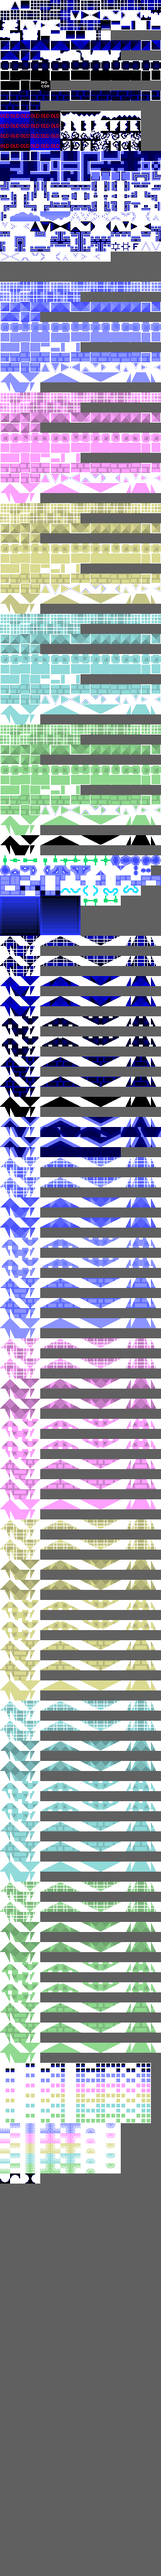
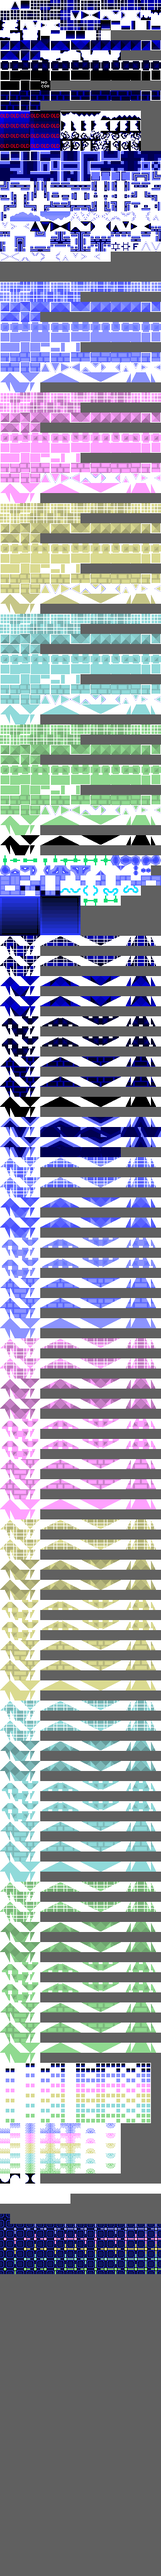
i fucking hate metatiles (added some 1.8 stuff)

Changed region(s): [[0.0, 0.8438, 1.0, 0.9062]]

diff --git a/src/metatiles.c b/src/metatiles.c
@@ -16,6 +16,9 @@
 #define PLAYER_PAL 7
 
 // Goes like this TOP_LEFT, TOP_RIGHT, BOTTOM_LEFT, BOTTOM_RIGHT, COL_TYPE
+
+// i hate this
+//-banana 03/22/2025
 const SCR_ENTRY metatiles[][5] = {
     Metatile("AIR",            TILE(0x00, 0, 0, 0), TILE(0x00, 0, 0, 0), TILE(0x00, 0, 0, 0), TILE(0x00, 0, 0, 0), COL_NONE)
     Metatile("SPIKE_UP",       TILE(0x53, 0, 0, 0), TILE(0x54, 0, 0, 0), TILE(0x55, 0, 0, 0), TILE(0x56, 0, 0, 0), COL_SPIKE_TOP)
@@ -3854,9 +3857,179 @@ const SCR_ENTRY metatiles[][5] = {
     Metatile("EMPTY",                       TILE(0x000, COL4_PAL, 0, 0), TILE(0x000, COL4_PAL, 0, 0), TILE(0x000, COL4_PAL, 0, 0), TILE(0x000, COL4_PAL, 0, 0), COL_NONE)
     Metatile("EMPTY",                       TILE(0x000, COL4_PAL, 0, 0), TILE(0x000, COL4_PAL, 0, 0), TILE(0x000, COL4_PAL, 0, 0), TILE(0x000, COL4_PAL, 0, 0), COL_NONE)
 
-    Metatile("CIRCULAR_GROUND_SPIKE_BOTTOM", TILE(0x000, 0, 0, 0), TILE(0x000, 0, 0, 0), TILE(0x1e4, 0, 0, 0), TILE(0x1e4, 0, H, 0), COL_GROUND_SPIKE_BOTTOM)
-    Metatile("CIRCULAR_GROUND_SPIKE_TOP",    TILE(0x1e4, 0, 0, V), TILE(0x1e4, 0, H, V), TILE(0x000, 0, 0, 0), TILE(0x000, 0, H, 0), COL_GROUND_SPIKE_TOP)
-    Metatile("CIRCULAR_GROUND_SPIKE_RIGHT",   TILE(0x000, 0, 0, 0), TILE(0x1e5, 0, 0, V), TILE(0x000, 0, 0, 0), TILE(0x1e5, 0, 0, 0), COL_GROUND_SPIKE_RIGHT)
+    Metatile("CIRCULAR_GROUND_SPIKE_BOTTOM",TILE(0x000, 0, 0, 0), TILE(0x000, 0, 0, 0), TILE(0x1e4, 0, 0, 0), TILE(0x1e4, 0, H, 0), COL_GROUND_SPIKE_BOTTOM)
+    Metatile("CIRCULAR_GROUND_SPIKE_TOP",   TILE(0x1e4, 0, 0, V), TILE(0x1e4, 0, H, V), TILE(0x000, 0, 0, 0), TILE(0x000, 0, H, 0), COL_GROUND_SPIKE_TOP)
+    Metatile("CIRCULAR_GROUND_SPIKE_RIGHT", TILE(0x000, 0, 0, 0), TILE(0x1e5, 0, 0, V), TILE(0x000, 0, 0, 0), TILE(0x1e5, 0, 0, 0), COL_GROUND_SPIKE_RIGHT)
     Metatile("CIRCULAR_GROUND_SPIKE_LEFT",  TILE(0x1e5, 0, H, V), TILE(0x000, 0, 0, 0), TILE(0x1e5, 0, H, 0), TILE(0x000, 0, 0, 0), COL_GROUND_SPIKE_LEFT)
+    Metatile("EMPTY",                       TILE(0x000, COL4_PAL, 0, 0), TILE(0x000, COL4_PAL, 0, 0), TILE(0x000, COL4_PAL, 0, 0), TILE(0x000, COL4_PAL, 0, 0), COL_NONE)
+    Metatile("EMPTY",                       TILE(0x000, COL4_PAL, 0, 0), TILE(0x000, COL4_PAL, 0, 0), TILE(0x000, COL4_PAL, 0, 0), TILE(0x000, COL4_PAL, 0, 0), COL_NONE)
+    Metatile("EMPTY",                       TILE(0x000, COL4_PAL, 0, 0), TILE(0x000, COL4_PAL, 0, 0), TILE(0x000, COL4_PAL, 0, 0), TILE(0x000, COL4_PAL, 0, 0), COL_NONE)
+    Metatile("EMPTY",                       TILE(0x000, COL4_PAL, 0, 0), TILE(0x000, COL4_PAL, 0, 0), TILE(0x000, COL4_PAL, 0, 0), TILE(0x000, COL4_PAL, 0, 0), COL_NONE)
+    Metatile("EMPTY",                       TILE(0x000, COL4_PAL, 0, 0), TILE(0x000, COL4_PAL, 0, 0), TILE(0x000, COL4_PAL, 0, 0), TILE(0x000, COL4_PAL, 0, 0), COL_NONE)
+    Metatile("EMPTY",                       TILE(0x000, COL4_PAL, 0, 0), TILE(0x000, COL4_PAL, 0, 0), TILE(0x000, COL4_PAL, 0, 0), TILE(0x000, COL4_PAL, 0, 0), COL_NONE)
+    Metatile("EMPTY",                       TILE(0x000, COL4_PAL, 0, 0), TILE(0x000, COL4_PAL, 0, 0), TILE(0x000, COL4_PAL, 0, 0), TILE(0x000, COL4_PAL, 0, 0), COL_NONE)
+    Metatile("EMPTY",                       TILE(0x000, COL4_PAL, 0, 0), TILE(0x000, COL4_PAL, 0, 0), TILE(0x000, COL4_PAL, 0, 0), TILE(0x000, COL4_PAL, 0, 0), COL_NONE)
+    Metatile("EMPTY",                       TILE(0x000, COL4_PAL, 0, 0), TILE(0x000, COL4_PAL, 0, 0), TILE(0x000, COL4_PAL, 0, 0), TILE(0x000, COL4_PAL, 0, 0), COL_NONE)
+    Metatile("EMPTY",                       TILE(0x000, COL4_PAL, 0, 0), TILE(0x000, COL4_PAL, 0, 0), TILE(0x000, COL4_PAL, 0, 0), TILE(0x000, COL4_PAL, 0, 0), COL_NONE)
+    Metatile("EMPTY",                       TILE(0x000, COL4_PAL, 0, 0), TILE(0x000, COL4_PAL, 0, 0), TILE(0x000, COL4_PAL, 0, 0), TILE(0x000, COL4_PAL, 0, 0), COL_NONE)
+    Metatile("EMPTY",                       TILE(0x000, COL4_PAL, 0, 0), TILE(0x000, COL4_PAL, 0, 0), TILE(0x000, COL4_PAL, 0, 0), TILE(0x000, COL4_PAL, 0, 0), COL_NONE)
+
+    Metatile("OUTLINE_BLOCK",                                                   TILE(0x120, LBG_PAL, 0, 0), TILE(0x120, LBG_PAL, H, 0), TILE(0x120, LBG_PAL, 0, V), TILE(0x120, LBG_PAL, H, V), COL_FULL)
+    Metatile("OUTLINE_TOP",                                                     TILE(0x23d, LBG_PAL, 0, 0), TILE(0x23d, LBG_PAL, 0, 0), TILE(0x000, LBG_PAL, 0, 0), TILE(0x000, LBG_PAL, 0, 0), COL_MINIBLOCK_1100)
+    Metatile("OUTLINE_LEFT",                                                    TILE(0x23e, LBG_PAL, H, 0), TILE(0x000, LBG_PAL, 0, 0), TILE(0x23e, LBG_PAL, H, 0), TILE(0x000, LBG_PAL, 0, 0), COL_MINIBLOCK_1010)
+    Metatile("OUTLINE_BOTTOM",                                                  TILE(0x000, LBG_PAL, 0, 0), TILE(0x000, LBG_PAL, 0, 0), TILE(0x23d, LBG_PAL, 0, V), TILE(0x23d, LBG_PAL, 0, V), COL_MINIBLOCK_0011)
+    Metatile("OUTLINE_RIGHT",                                                   TILE(0x000, LBG_PAL, 0, 0), TILE(0x23e, LBG_PAL, 0, 0), TILE(0x000, LBG_PAL, 0, 0), TILE(0x23e, LBG_PAL, 0, 0), COL_MINIBLOCK_0101)
+    Metatile("OUTLINE_LEFT_TOP",                                                TILE(0x120, LBG_PAL, 0, 0), TILE(0x23d, LBG_PAL, 0, 0), TILE(0x23e, LBG_PAL, H, 0), TILE(0x000, LBG_PAL, 0, 0), COL_MINIBLOCK_1110)
+    Metatile("OUTLINE_LEFT_BOTTOM",                                             TILE(0x23e, LBG_PAL, H, 0), TILE(0x000, LBG_PAL, 0, 0), TILE(0x120, LBG_PAL, 0, V), TILE(0x23d, LBG_PAL, 0, V), COL_MINIBLOCK_1011)
+    Metatile("OUTLINE_BOTTOM_RIGHT",                                            TILE(0x000, LBG_PAL, 0, 0), TILE(0x23e, LBG_PAL, 0, V), TILE(0x23d, LBG_PAL, 0, V), TILE(0x120, LBG_PAL, H, V), COL_MINIBLOCK_0111)
+    Metatile("OUTLINE_TOP_RIGHT",                                               TILE(0x23d, LBG_PAL, 0, 0), TILE(0x120, LBG_PAL, H, 0), TILE(0x000, LBG_PAL, 0, 0), TILE(0x23e, LBG_PAL, 0, 0), COL_MINIBLOCK_1101)
+// oh my fucking god i forgot about those outlines
+//-banana, 03/23/2025
+    Metatile("OUTLINE_LEFT_TOP_RIGHT",                                             TILE(0x120, LBG_PAL, 0, 0), TILE(0x120, LBG_PAL, H, 0), TILE(0x23e, LBG_PAL, H, 0), TILE(0x23e, LBG_PAL, 0, 0), COL_FULL)
+    Metatile("OUTLINE_TOP_LEFT_BOTTOM",                                            TILE(0x120, LBG_PAL, 0, 0), TILE(0x23d, LBG_PAL, 0, 0), TILE(0x120, LBG_PAL, 0, V), TILE(0x23d, LBG_PAL, 0, V), COL_FULL)
+    Metatile("OUTLINE_LEFT_BOTTOM_RIGHT",                                          TILE(0x23e, LBG_PAL, H, 0), TILE(0x23e, LBG_PAL, 0, 0), TILE(0x120, LBG_PAL, 0, V), TILE(0x120, LBG_PAL, H, V), COL_FULL)
+    Metatile("OUTLINE_BOTTOM_RIGHT_TOP",                                           TILE(0x23d, LBG_PAL, 0, 0), TILE(0x120, LBG_PAL, H, 0), TILE(0x23d, LBG_PAL, 0, V), TILE(0x120, LBG_PAL, H, V), COL_FULL)
+    Metatile("OUTLINE_LEFT_RIGHT",                                                 TILE(0x23e, LBG_PAL, H, 0), TILE(0x23e, LBG_PAL, 0, 0), TILE(0x23e, LBG_PAL, H, 0), TILE(0x23e, LBG_PAL, 0, 0), COL_FULL)
+    Metatile("OUTLINE_TOP_BOTTOM",                                                 TILE(0x23d, LBG_PAL, 0, 0), TILE(0x23d, LBG_PAL, 0, 0), TILE(0x23d, LBG_PAL, 0, V), TILE(0x23d, LBG_PAL, 0, V), COL_FULL)
+    Metatile("OUTLINE_DOT_TOP_LEFT",                                               TILE(0x23f, LBG_PAL, 0, 0), TILE(0x000, LBG_PAL, 0, 0), TILE(0x000, LBG_PAL, 0, 0), TILE(0x000, LBG_PAL, 0, 0), COL_MINIBLOCK_1000)
+//finally, hopefully nothing breaks
+//-banana, that same day
+//guess what, something broke
+//-banana again lmao
+    Metatile("OUTLINE_DOT_BOTTOM_LEFT",     TILE(0x000, LBG_PAL, 0, 0), TILE(0x000, LBG_PAL, 0, 0), TILE(0x23f, LBG_PAL, 0, V), TILE(0x000, LBG_PAL, 0, 0), COL_MINIBLOCK_0010)
+    Metatile("OUTLINE_DOT_BOTTOM_RIGHT",    TILE(0x000, LBG_PAL, 0, 0), TILE(0x000, LBG_PAL, 0, 0), TILE(0x000, LBG_PAL, 0, 0), TILE(0x23f, LBG_PAL, H, V), COL_MINIBLOCK_0001)
+    Metatile("OUTLINE_DOT_TOP_RIGHT",       TILE(0x000, LBG_PAL, 0, 0), TILE(0x23f, LBG_PAL, H, 0), TILE(0x000, LBG_PAL, 0, 0), TILE(0x000, LBG_PAL, 0, 0), COL_MINIBLOCK_0100)
+    Metatile("OUTLINE_LEFT_TOP_W_DOT",      TILE(0x120, LBG_PAL, 0, 0), TILE(0x23d, LBG_PAL, 0, 0), TILE(0x23e, LBG_PAL, H, 0), TILE(0x23f, LBG_PAL, H, V), COL_FULL)
+    Metatile("OUTLINE_LEFT_BOTTOM_W_DOT",   TILE(0x23e, LBG_PAL, H, 0), TILE(0x23f, LBG_PAL, H, 0), TILE(0x120, LBG_PAL, 0, V), TILE(0x23d, LBG_PAL, 0, V), COL_FULL)
+    Metatile("OUTLINE_BOTTOM_RIGHT_W_DOT",  TILE(0x23f, LBG_PAL, 0, 0), TILE(0x23e, LBG_PAL, 0, V), TILE(0x23d, LBG_PAL, 0, V), TILE(0x120, LBG_PAL, H, V), COL_FULL)
+    Metatile("OUTLINE_TOP_RIGHT_W_DOT",     TILE(0x23d, LBG_PAL, 0, 0), TILE(0x120, LBG_PAL, H, 0), TILE(0x23f, LBG_PAL, 0, V), TILE(0x23e, LBG_PAL, 0, 0), COL_FULL)
+    Metatile("EMPTY",                       TILE(0x000, COL4_PAL, 0, 0), TILE(0x000, COL4_PAL, 0, 0), TILE(0x000, COL4_PAL, 0, 0), TILE(0x000, COL4_PAL, 0, 0), COL_NONE)
+    Metatile("EMPTY",                       TILE(0x000, COL4_PAL, 0, 0), TILE(0x000, COL4_PAL, 0, 0), TILE(0x000, COL4_PAL, 0, 0), TILE(0x000, COL4_PAL, 0, 0), COL_NONE)
+    Metatile("EMPTY",                       TILE(0x000, COL4_PAL, 0, 0), TILE(0x000, COL4_PAL, 0, 0), TILE(0x000, COL4_PAL, 0, 0), TILE(0x000, COL4_PAL, 0, 0), COL_NONE)
+    Metatile("EMPTY",                       TILE(0x000, COL4_PAL, 0, 0), TILE(0x000, COL4_PAL, 0, 0), TILE(0x000, COL4_PAL, 0, 0), TILE(0x000, COL4_PAL, 0, 0), COL_NONE)
+    Metatile("EMPTY",                       TILE(0x000, COL4_PAL, 0, 0), TILE(0x000, COL4_PAL, 0, 0), TILE(0x000, COL4_PAL, 0, 0), TILE(0x000, COL4_PAL, 0, 0), COL_NONE)
+    Metatile("EMPTY",                       TILE(0x000, COL4_PAL, 0, 0), TILE(0x000, COL4_PAL, 0, 0), TILE(0x000, COL4_PAL, 0, 0), TILE(0x000, COL4_PAL, 0, 0), COL_NONE)
+    Metatile("EMPTY",                       TILE(0x000, COL4_PAL, 0, 0), TILE(0x000, COL4_PAL, 0, 0), TILE(0x000, COL4_PAL, 0, 0), TILE(0x000, COL4_PAL, 0, 0), COL_NONE)
+    Metatile("EMPTY",                       TILE(0x000, COL4_PAL, 0, 0), TILE(0x000, COL4_PAL, 0, 0), TILE(0x000, COL4_PAL, 0, 0), TILE(0x000, COL4_PAL, 0, 0), COL_NONE)
+    Metatile("EMPTY",                       TILE(0x000, COL4_PAL, 0, 0), TILE(0x000, COL4_PAL, 0, 0), TILE(0x000, COL4_PAL, 0, 0), TILE(0x000, COL4_PAL, 0, 0), COL_NONE)
+
+    Metatile("EMPTY",                       TILE(0x000, COL4_PAL, 0, 0), TILE(0x000, COL4_PAL, 0, 0), TILE(0x000, COL4_PAL, 0, 0), TILE(0x000, COL4_PAL, 0, 0), COL_NONE)
+    Metatile("EMPTY",                       TILE(0x000, COL4_PAL, 0, 0), TILE(0x000, COL4_PAL, 0, 0), TILE(0x000, COL4_PAL, 0, 0), TILE(0x000, COL4_PAL, 0, 0), COL_NONE)
+    Metatile("EMPTY",                       TILE(0x000, COL4_PAL, 0, 0), TILE(0x000, COL4_PAL, 0, 0), TILE(0x000, COL4_PAL, 0, 0), TILE(0x000, COL4_PAL, 0, 0), COL_NONE)
+    Metatile("EMPTY",                       TILE(0x000, COL4_PAL, 0, 0), TILE(0x000, COL4_PAL, 0, 0), TILE(0x000, COL4_PAL, 0, 0), TILE(0x000, COL4_PAL, 0, 0), COL_NONE)
+    Metatile("EMPTY",                       TILE(0x000, COL4_PAL, 0, 0), TILE(0x000, COL4_PAL, 0, 0), TILE(0x000, COL4_PAL, 0, 0), TILE(0x000, COL4_PAL, 0, 0), COL_NONE)
+    Metatile("EMPTY",                       TILE(0x000, COL4_PAL, 0, 0), TILE(0x000, COL4_PAL, 0, 0), TILE(0x000, COL4_PAL, 0, 0), TILE(0x000, COL4_PAL, 0, 0), COL_NONE)
+    Metatile("EMPTY",                       TILE(0x000, COL4_PAL, 0, 0), TILE(0x000, COL4_PAL, 0, 0), TILE(0x000, COL4_PAL, 0, 0), TILE(0x000, COL4_PAL, 0, 0), COL_NONE)
+    Metatile("EMPTY",                       TILE(0x000, COL4_PAL, 0, 0), TILE(0x000, COL4_PAL, 0, 0), TILE(0x000, COL4_PAL, 0, 0), TILE(0x000, COL4_PAL, 0, 0), COL_NONE)
+    Metatile("EMPTY",                       TILE(0x000, COL4_PAL, 0, 0), TILE(0x000, COL4_PAL, 0, 0), TILE(0x000, COL4_PAL, 0, 0), TILE(0x000, COL4_PAL, 0, 0), COL_NONE)
+    Metatile("EMPTY",                       TILE(0x000, COL4_PAL, 0, 0), TILE(0x000, COL4_PAL, 0, 0), TILE(0x000, COL4_PAL, 0, 0), TILE(0x000, COL4_PAL, 0, 0), COL_NONE)
+    Metatile("EMPTY",                       TILE(0x000, COL4_PAL, 0, 0), TILE(0x000, COL4_PAL, 0, 0), TILE(0x000, COL4_PAL, 0, 0), TILE(0x000, COL4_PAL, 0, 0), COL_NONE)
+    Metatile("EMPTY",                       TILE(0x000, COL4_PAL, 0, 0), TILE(0x000, COL4_PAL, 0, 0), TILE(0x000, COL4_PAL, 0, 0), TILE(0x000, COL4_PAL, 0, 0), COL_NONE)
+    Metatile("EMPTY",                       TILE(0x000, COL4_PAL, 0, 0), TILE(0x000, COL4_PAL, 0, 0), TILE(0x000, COL4_PAL, 0, 0), TILE(0x000, COL4_PAL, 0, 0), COL_NONE)
+    Metatile("EMPTY",                       TILE(0x000, COL4_PAL, 0, 0), TILE(0x000, COL4_PAL, 0, 0), TILE(0x000, COL4_PAL, 0, 0), TILE(0x000, COL4_PAL, 0, 0), COL_NONE)
+    Metatile("EMPTY",                       TILE(0x000, COL4_PAL, 0, 0), TILE(0x000, COL4_PAL, 0, 0), TILE(0x000, COL4_PAL, 0, 0), TILE(0x000, COL4_PAL, 0, 0), COL_NONE)
+    Metatile("EMPTY",                       TILE(0x000, COL4_PAL, 0, 0), TILE(0x000, COL4_PAL, 0, 0), TILE(0x000, COL4_PAL, 0, 0), TILE(0x000, COL4_PAL, 0, 0), COL_NONE)
+
+    Metatile("18_CROSS_WITH_EMPTY_CENTER",                                      TILE(0x1f0, LBG_PAL, 0, 0), TILE(0x1f0, LBG_PAL, H, 0), TILE(0x1f0, LBG_PAL, 0, V), TILE(0x1f0, LBG_PAL, H, V), COL_NONE)
+    Metatile("EMPTY",                                                           TILE(0x000, COL4_PAL, 0, 0), TILE(0x000, COL4_PAL, 0, 0), TILE(0x000, COL4_PAL, 0, 0), TILE(0x000, COL4_PAL, 0, 0), COL_NONE)
+    Metatile("EMPTY",                                                           TILE(0x000, COL4_PAL, 0, 0), TILE(0x000, COL4_PAL, 0, 0), TILE(0x000, COL4_PAL, 0, 0), TILE(0x000, COL4_PAL, 0, 0), COL_NONE)
+    Metatile("EMPTY",                                                           TILE(0x000, COL4_PAL, 0, 0), TILE(0x000, COL4_PAL, 0, 0), TILE(0x000, COL4_PAL, 0, 0), TILE(0x000, COL4_PAL, 0, 0), COL_NONE)
+    Metatile("EMPTY",                                                           TILE(0x000, COL4_PAL, 0, 0), TILE(0x000, COL4_PAL, 0, 0), TILE(0x000, COL4_PAL, 0, 0), TILE(0x000, COL4_PAL, 0, 0), COL_NONE)
+    Metatile("EMPTY",                                                           TILE(0x000, COL4_PAL, 0, 0), TILE(0x000, COL4_PAL, 0, 0), TILE(0x000, COL4_PAL, 0, 0), TILE(0x000, COL4_PAL, 0, 0), COL_NONE)
+    Metatile("EMPTY",                                                           TILE(0x000, COL4_PAL, 0, 0), TILE(0x000, COL4_PAL, 0, 0), TILE(0x000, COL4_PAL, 0, 0), TILE(0x000, COL4_PAL, 0, 0), COL_NONE)
+    Metatile("EMPTY",                                                           TILE(0x000, COL4_PAL, 0, 0), TILE(0x000, COL4_PAL, 0, 0), TILE(0x000, COL4_PAL, 0, 0), TILE(0x000, COL4_PAL, 0, 0), COL_NONE)
+    Metatile("EMPTY",                                                           TILE(0x000, COL4_PAL, 0, 0), TILE(0x000, COL4_PAL, 0, 0), TILE(0x000, COL4_PAL, 0, 0), TILE(0x000, COL4_PAL, 0, 0), COL_NONE)
+    Metatile("EMPTY",                                                           TILE(0x000, COL4_PAL, 0, 0), TILE(0x000, COL4_PAL, 0, 0), TILE(0x000, COL4_PAL, 0, 0), TILE(0x000, COL4_PAL, 0, 0), COL_NONE)
+    Metatile("EMPTY",                                                           TILE(0x000, COL4_PAL, 0, 0), TILE(0x000, COL4_PAL, 0, 0), TILE(0x000, COL4_PAL, 0, 0), TILE(0x000, COL4_PAL, 0, 0), COL_NONE)
+    Metatile("EMPTY",                                                           TILE(0x000, COL4_PAL, 0, 0), TILE(0x000, COL4_PAL, 0, 0), TILE(0x000, COL4_PAL, 0, 0), TILE(0x000, COL4_PAL, 0, 0), COL_NONE)
+    Metatile("EMPTY",                                                           TILE(0x000, COL4_PAL, 0, 0), TILE(0x000, COL4_PAL, 0, 0), TILE(0x000, COL4_PAL, 0, 0), TILE(0x000, COL4_PAL, 0, 0), COL_NONE)
+    Metatile("EMPTY",                                                           TILE(0x000, COL4_PAL, 0, 0), TILE(0x000, COL4_PAL, 0, 0), TILE(0x000, COL4_PAL, 0, 0), TILE(0x000, COL4_PAL, 0, 0), COL_NONE)
+    Metatile("EMPTY",                                                           TILE(0x000, COL4_PAL, 0, 0), TILE(0x000, COL4_PAL, 0, 0), TILE(0x000, COL4_PAL, 0, 0), TILE(0x000, COL4_PAL, 0, 0), COL_NONE)
+    Metatile("EMPTY",                                                           TILE(0x000, COL4_PAL, 0, 0), TILE(0x000, COL4_PAL, 0, 0), TILE(0x000, COL4_PAL, 0, 0), TILE(0x000, COL4_PAL, 0, 0), COL_NONE)
+
+    Metatile("LGB_18__CROSS_WITH_FULL_CENTER",                                  TILE(0x1f1, LBG_PAL, 0, 0), TILE(0x1f1, LBG_PAL, H, 0), TILE(0x1f1, LBG_PAL, 0, V), TILE(0x1f1, LBG_PAL, H, V), COL_NONE)
+    Metatile("LGB_18_CROSS_WITH_FULL_CENTER_AND_LINE_AT_BOTTOM",                TILE(0x1f1, LBG_PAL, 0, 0), TILE(0x1f1, LBG_PAL, H, 0), TILE(0x1f2, LBG_PAL, 0, V), TILE(0x1f2, LBG_PAL, H, V), COL_NONE)
+    Metatile("LGB_18_CROSS_WITH_FULL_CENTER_AND_LINE_AT_RIGHT",                 TILE(0x1f1, LBG_PAL, 0, 0), TILE(0x1f3, LBG_PAL, H, 0), TILE(0x1f1, LBG_PAL, 0, V), TILE(0x1f3, LBG_PAL, H, V), COL_NONE)
+    Metatile("LGB_18_CROSS_WITH_FULL_CENTER_AND_LINE_AT_TOP",                   TILE(0x1f2, LBG_PAL, 0, 0), TILE(0x1f2, LBG_PAL, H, 0), TILE(0x1f1, LBG_PAL, 0, V), TILE(0x1f1, LBG_PAL, H, V), COL_NONE)
+    Metatile("LGB_18_CROSS_WITH_FULL_CENTER_AND_LINE_AT_LEFT",                  TILE(0x1f3, LBG_PAL, 0, 0), TILE(0x1f1, LBG_PAL, H, 0), TILE(0x1f3, LBG_PAL, 0, V), TILE(0x1f1, LBG_PAL, H, V), COL_NONE)
+    Metatile("LGB_18_CROSS_WITH_FULL_CENTER_AND_LINE_AT_BOTTOM_AND_RIGHT",      TILE(0x1f1, LBG_PAL, 0, 0), TILE(0x1f3, LBG_PAL, H, 0), TILE(0x1f2, LBG_PAL, 0, V), TILE(0x1f4, LBG_PAL, H, V), COL_NONE)
+    Metatile("LGB_18_CROSS_WITH_FULL_CENTER_AND_LINE_AT_RIGHT_AND_TOP",         TILE(0x1f2, LBG_PAL, 0, 0), TILE(0x1f4, LBG_PAL, H, 0), TILE(0x1f1, LBG_PAL, 0, V), TILE(0x1f3, LBG_PAL, H, V), COL_NONE)
+    Metatile("LGB_18_CROSS_WITH_FULL_CENTER_AND_LINE_AT_TOP_AND_LEFT",          TILE(0x1f4, LBG_PAL, 0, 0), TILE(0x1f2, LBG_PAL, H, 0), TILE(0x1f3, LBG_PAL, 0, V), TILE(0x1f1, LBG_PAL, H, V), COL_NONE)
+    Metatile("LGB_18_CROSS_WITH_FULL_CENTER_AND_LINE_AT_LEFT_AND_BOTTOM",       TILE(0x1f3, LBG_PAL, 0, 0), TILE(0x1f1, LBG_PAL, H, 0), TILE(0x1f4, LBG_PAL, 0, V), TILE(0x1f2, LBG_PAL, H, V), COL_NONE)
+    Metatile("LGB_18_CROSS_WITH_FULL_CENTER_AND_LINE_AT_BOTTOM_AND_TOP",        TILE(0x1f2, LBG_PAL, 0, 0), TILE(0x1f2, LBG_PAL, H, 0), TILE(0x1f2, LBG_PAL, 0, V), TILE(0x1f2, LBG_PAL, H, V), COL_NONE)
+    Metatile("LGB_18_CROSS_WITH_FULL_CENTER_AND_LINE_AT_LEFT_AND_RIGHT",        TILE(0x1f3, LBG_PAL, 0, 0), TILE(0x1f3, LBG_PAL, H, 0), TILE(0x1f3, LBG_PAL, 0, V), TILE(0x1f3, LBG_PAL, H, V), COL_NONE)
+    Metatile("LGB_18_CROSS_WITH_FULL_CENTER_AND_LINE_AT_LEFT_BOTTOM_AND_RIGHT", TILE(0x1f3, LBG_PAL, 0, 0), TILE(0x1f3, LBG_PAL, H, 0), TILE(0x1f4, LBG_PAL, 0, V), TILE(0x1f4, LBG_PAL, H, V), COL_NONE)
+    Metatile("LGB_18_CROSS_WITH_FULL_CENTER_AND_LINE_AT_BOTTOM_RIGHT_AND_TOP",  TILE(0x1f2, LBG_PAL, 0, 0), TILE(0x1f4, LBG_PAL, H, 0), TILE(0x1f2, LBG_PAL, 0, V), TILE(0x1f4, LBG_PAL, H, V), COL_NONE)
+    Metatile("LGB_18_CROSS_WITH_FULL_CENTER_AND_LINE_AT_BOTTOM_RIGHT_AND_TOP",  TILE(0x1f4, LBG_PAL, 0, 0), TILE(0x1f4, LBG_PAL, H, 0), TILE(0x1f3, LBG_PAL, 0, V), TILE(0x1f3, LBG_PAL, H, V), COL_NONE)
+    Metatile("LGB_18_CROSS_WITH_FULL_CENTER_AND_LINE_AT_TOP_LEFT_AND_BOTTOM",   TILE(0x1f4, LBG_PAL, 0, 0), TILE(0x1f2, LBG_PAL, H, 0), TILE(0x1f4, LBG_PAL, 0, V), TILE(0x1f2, LBG_PAL, H, V), COL_NONE)
+    Metatile("LGB_18_CROSS_OMFG_ITS_OVER_FULL_CENTER_AND_CROSS",                TILE(0x1f4, LBG_PAL, 0, 0), TILE(0x1f4, LBG_PAL, H, 0), TILE(0x1f4, LBG_PAL, 0, V), TILE(0x1f4, LBG_PAL, H, V), COL_NONE)
+    
+    Metatile("18__CROSS_WITH_FULL_CENTER",                                      TILE(0x1f1, COL1_PAL, 0, 0), TILE(0x1f1, COL1_PAL, H, 0), TILE(0x1f1, COL1_PAL, 0, V), TILE(0x1f1, COL1_PAL, H, V), COL_NONE)
+    Metatile("18_CROSS_WITH_FULL_CENTER_AND_LINE_AT_BOTTOM",                    TILE(0x1f1, COL1_PAL, 0, 0), TILE(0x1f1, COL1_PAL, H, 0), TILE(0x1f2, COL1_PAL, 0, V), TILE(0x1f2, COL1_PAL, H, V), COL_NONE)
+    Metatile("18_CROSS_WITH_FULL_CENTER_AND_LINE_AT_RIGHT",                     TILE(0x1f1, COL1_PAL, 0, 0), TILE(0x1f3, COL1_PAL, H, 0), TILE(0x1f1, COL1_PAL, 0, V), TILE(0x1f3, COL1_PAL, H, V), COL_NONE)
+    Metatile("18_CROSS_WITH_FULL_CENTER_AND_LINE_AT_TOP",                       TILE(0x1f2, COL1_PAL, 0, 0), TILE(0x1f2, COL1_PAL, H, 0), TILE(0x1f1, COL1_PAL, 0, V), TILE(0x1f1, COL1_PAL, H, V), COL_NONE)
+    Metatile("18_CROSS_WITH_FULL_CENTER_AND_LINE_AT_LEFT",                      TILE(0x1f3, COL1_PAL, 0, 0), TILE(0x1f1, COL1_PAL, H, 0), TILE(0x1f3, COL1_PAL, 0, V), TILE(0x1f1, COL1_PAL, H, V), COL_NONE)
+    Metatile("18_CROSS_WITH_FULL_CENTER_AND_LINE_AT_BOTTOM_AND_RIGHT",          TILE(0x1f1, COL1_PAL, 0, 0), TILE(0x1f3, COL1_PAL, H, 0), TILE(0x1f2, COL1_PAL, 0, V), TILE(0x1f4, COL1_PAL, H, V), COL_NONE)
+    Metatile("18_CROSS_WITH_FULL_CENTER_AND_LINE_AT_RIGHT_AND_TOP",             TILE(0x1f2, COL1_PAL, 0, 0), TILE(0x1f4, COL1_PAL, H, 0), TILE(0x1f1, COL1_PAL, 0, V), TILE(0x1f3, COL1_PAL, H, V), COL_NONE)
+    Metatile("18_CROSS_WITH_FULL_CENTER_AND_LINE_AT_TOP_AND_LEFT",              TILE(0x1f4, COL1_PAL, 0, 0), TILE(0x1f2, COL1_PAL, H, 0), TILE(0x1f3, COL1_PAL, 0, V), TILE(0x1f1, COL1_PAL, H, V), COL_NONE)
+    Metatile("18_CROSS_WITH_FULL_CENTER_AND_LINE_AT_LEFT_AND_BOTTOM",           TILE(0x1f3, COL1_PAL, 0, 0), TILE(0x1f1, COL1_PAL, H, 0), TILE(0x1f4, COL1_PAL, 0, V), TILE(0x1f2, COL1_PAL, H, V), COL_NONE)
+    Metatile("18_CROSS_WITH_FULL_CENTER_AND_LINE_AT_BOTTOM_AND_TOP",            TILE(0x1f2, COL1_PAL, 0, 0), TILE(0x1f2, COL1_PAL, H, 0), TILE(0x1f2, COL1_PAL, 0, V), TILE(0x1f2, COL1_PAL, H, V), COL_NONE)
+    Metatile("18_CROSS_WITH_FULL_CENTER_AND_LINE_AT_LEFT_AND_RIGHT",            TILE(0x1f3, COL1_PAL, 0, 0), TILE(0x1f3, COL1_PAL, H, 0), TILE(0x1f3, COL1_PAL, 0, V), TILE(0x1f3, COL1_PAL, H, V), COL_NONE)
+    Metatile("18_CROSS_WITH_FULL_CENTER_AND_LINE_AT_LEFT_BOTTOM_AND_RIGHT",     TILE(0x1f3, COL1_PAL, 0, 0), TILE(0x1f3, COL1_PAL, H, 0), TILE(0x1f4, COL1_PAL, 0, V), TILE(0x1f4, COL1_PAL, H, V), COL_NONE)
+    Metatile("18_CROSS_WITH_FULL_CENTER_AND_LINE_AT_BOTTOM_RIGHT_AND_TOP",      TILE(0x1f2, COL1_PAL, 0, 0), TILE(0x1f4, COL1_PAL, H, 0), TILE(0x1f2, COL1_PAL, 0, V), TILE(0x1f4, COL1_PAL, H, V), COL_NONE)
+    Metatile("18_CROSS_WITH_FULL_CENTER_AND_LINE_AT_BOTTOM_RIGHT_AND_TOP",      TILE(0x1f4, COL1_PAL, 0, 0), TILE(0x1f4, COL1_PAL, H, 0), TILE(0x1f3, COL1_PAL, 0, V), TILE(0x1f3, COL1_PAL, H, V), COL_NONE)
+    Metatile("18_CROSS_WITH_FULL_CENTER_AND_LINE_AT_TOP_LEFT_AND_BOTTOM",       TILE(0x1f4, COL1_PAL, 0, 0), TILE(0x1f2, COL1_PAL, H, 0), TILE(0x1f4, COL1_PAL, 0, V), TILE(0x1f2, COL1_PAL, H, V), COL_NONE)
+    Metatile("18_CROSS_OMFG_ITS_OVER_FULL_CENTER_AND_CROSS",                    TILE(0x1f4, COL1_PAL, 0, 0), TILE(0x1f4, COL1_PAL, H, 0), TILE(0x1f4, COL1_PAL, 0, V), TILE(0x1f4, COL1_PAL, H, V), COL_NONE)
+    
+    Metatile("COL2_18_CROSS_WITH_FULL_CENTER_BUT_COL",                          TILE(0x1f1, COL2_PAL, 0, 0), TILE(0x1f1, COL2_PAL, H, 0), TILE(0x1f1, COL2_PAL, 0, V), TILE(0x1f1, COL2_PAL, H, V), COL_NONE)
+    Metatile("COL2_18_CROSS_WITH_FULL_CENTER_AND_LINE_AT_BOTTOM",               TILE(0x1f1, COL2_PAL, 0, 0), TILE(0x1f1, COL2_PAL, H, 0), TILE(0x1f2, COL2_PAL, 0, V), TILE(0x1f2, COL2_PAL, H, V), COL_NONE)
+    Metatile("COL2_18_CROSS_WITH_FULL_CENTER_AND_LINE_AT_RIGHT",                TILE(0x1f1, COL2_PAL, 0, 0), TILE(0x1f3, COL2_PAL, H, 0), TILE(0x1f1, COL2_PAL, 0, V), TILE(0x1f3, COL2_PAL, H, V), COL_NONE)
+    Metatile("COL2_18_CROSS_WITH_FULL_CENTER_AND_LINE_AT_TOP",                  TILE(0x1f2, COL2_PAL, 0, 0), TILE(0x1f2, COL2_PAL, H, 0), TILE(0x1f1, COL2_PAL, 0, V), TILE(0x1f1, COL2_PAL, H, V), COL_NONE)
+    Metatile("COL2_18_CROSS_WITH_FULL_CENTER_AND_LINE_AT_LEFT",                 TILE(0x1f3, COL2_PAL, 0, 0), TILE(0x1f1, COL2_PAL, H, 0), TILE(0x1f3, COL2_PAL, 0, V), TILE(0x1f1, COL2_PAL, H, V), COL_NONE)
+    Metatile("COL2_18_CROSS_WITH_FULL_CENTER_AND_LINE_AT_BOTTOM_AND_RIGHT",     TILE(0x1f1, COL2_PAL, 0, 0), TILE(0x1f3, COL2_PAL, H, 0), TILE(0x1f2, COL2_PAL, 0, V), TILE(0x1f4, COL2_PAL, H, V), COL_NONE)
+    Metatile("COL2_18_CROSS_WITH_FULL_CENTER_AND_LINE_AT_RIGHT_AND_TOP",        TILE(0x1f2, COL2_PAL, 0, 0), TILE(0x1f4, COL2_PAL, H, 0), TILE(0x1f1, COL2_PAL, 0, V), TILE(0x1f3, COL2_PAL, H, V), COL_NONE)
+    Metatile("COL2_18_CROSS_WITH_FULL_CENTER_AND_LINE_AT_TOP_AND_LEFT",         TILE(0x1f4, COL2_PAL, 0, 0), TILE(0x1f2, COL2_PAL, H, 0), TILE(0x1f3, COL2_PAL, 0, V), TILE(0x1f1, COL2_PAL, H, V), COL_NONE)
+    Metatile("COL2_18_CROSS_WITH_FULL_CENTER_AND_LINE_AT_LEFT_AND_BOTTOM",      TILE(0x1f3, COL2_PAL, 0, 0), TILE(0x1f1, COL2_PAL, H, 0), TILE(0x1f4, COL2_PAL, 0, V), TILE(0x1f2, COL2_PAL, H, V), COL_NONE)
+    Metatile("COL2_18_CROSS_WITH_FULL_CENTER_AND_LINE_AT_BOTTOM_AND_TOP",       TILE(0x1f2, COL2_PAL, 0, 0), TILE(0x1f2, COL2_PAL, H, 0), TILE(0x1f2, COL2_PAL, 0, V), TILE(0x1f2, COL2_PAL, H, V), COL_NONE)
+    Metatile("COL2_18_CROSS_WITH_FULL_CENTER_AND_LINE_AT_LEFT_AND_RIGHT",       TILE(0x1f3, COL2_PAL, 0, 0), TILE(0x1f3, COL2_PAL, H, 0), TILE(0x1f3, COL2_PAL, 0, V), TILE(0x1f3, COL2_PAL, H, V), COL_NONE)
+    Metatile("COL2_18_CROSS_WITH_FULL_CENTER_AND_LINE_AT_LEFT_BOTTOM_AND_RIGHT",TILE(0x1f3, COL2_PAL, 0, 0), TILE(0x1f3, COL2_PAL, H, 0), TILE(0x1f4, COL2_PAL, 0, V), TILE(0x1f4, COL2_PAL, H, V), COL_NONE)
+    Metatile("COL2_18_CROSS_WITH_FULL_CENTER_AND_LINE_AT_BOTTOM_RIGHT_AND_TOP", TILE(0x1f2, COL2_PAL, 0, 0), TILE(0x1f4, COL2_PAL, H, 0), TILE(0x1f2, COL2_PAL, 0, V), TILE(0x1f4, COL2_PAL, H, V), COL_NONE)
+    Metatile("COL2_18_CROSS_WITH_FULL_CENTER_AND_LINE_AT_BOTTOM_RIGHT_AND_TOP", TILE(0x1f4, COL2_PAL, 0, 0), TILE(0x1f4, COL2_PAL, H, 0), TILE(0x1f3, COL2_PAL, 0, V), TILE(0x1f3, COL2_PAL, H, V), COL_NONE)
+    Metatile("COL2_18_CROSS_WITH_FULL_CENTER_AND_LINE_AT_TOP_LEFT_AND_BOTTOM",  TILE(0x1f4, COL2_PAL, 0, 0), TILE(0x1f2, COL2_PAL, H, 0), TILE(0x1f4, COL2_PAL, 0, V), TILE(0x1f2, COL2_PAL, H, V), COL_NONE)
+    Metatile("COL2_18_CROSS_OMFG_ITS_OVER_FULL_CENTER_AND_CROSS",               TILE(0x1f4, COL2_PAL, 0, 0), TILE(0x1f4, COL2_PAL, H, 0), TILE(0x1f4, COL2_PAL, 0, V), TILE(0x1f4, COL2_PAL, H, V), COL_NONE)
+
+    Metatile("COL3_18_CROSS_WITH_FULL_CENTER_BUT_COL",                          TILE(0x1f1, COL3_PAL, 0, 0), TILE(0x1f1, COL3_PAL, H, 0), TILE(0x1f1, COL3_PAL, 0, V), TILE(0x1f1, COL3_PAL, H, V), COL_NONE)
+    Metatile("COL3_18_CROSS_WITH_FULL_CENTER_AND_LINE_AT_BOTTOM",               TILE(0x1f1, COL3_PAL, 0, 0), TILE(0x1f1, COL3_PAL, H, 0), TILE(0x1f2, COL3_PAL, 0, V), TILE(0x1f2, COL3_PAL, H, V), COL_NONE)
+    Metatile("COL3_18_CROSS_WITH_FULL_CENTER_AND_LINE_AT_RIGHT",                TILE(0x1f1, COL3_PAL, 0, 0), TILE(0x1f3, COL3_PAL, H, 0), TILE(0x1f1, COL3_PAL, 0, V), TILE(0x1f3, COL3_PAL, H, V), COL_NONE)
+    Metatile("COL3_18_CROSS_WITH_FULL_CENTER_AND_LINE_AT_TOP",                  TILE(0x1f2, COL3_PAL, 0, 0), TILE(0x1f2, COL3_PAL, H, 0), TILE(0x1f1, COL3_PAL, 0, V), TILE(0x1f1, COL3_PAL, H, V), COL_NONE)
+    Metatile("COL3_18_CROSS_WITH_FULL_CENTER_AND_LINE_AT_LEFT",                 TILE(0x1f3, COL3_PAL, 0, 0), TILE(0x1f1, COL3_PAL, H, 0), TILE(0x1f3, COL3_PAL, 0, V), TILE(0x1f1, COL3_PAL, H, V), COL_NONE)
+    Metatile("COL3_18_CROSS_WITH_FULL_CENTER_AND_LINE_AT_BOTTOM_AND_RIGHT",     TILE(0x1f1, COL3_PAL, 0, 0), TILE(0x1f3, COL3_PAL, H, 0), TILE(0x1f2, COL3_PAL, 0, V), TILE(0x1f4, COL3_PAL, H, V), COL_NONE)
+    Metatile("COL3_18_CROSS_WITH_FULL_CENTER_AND_LINE_AT_RIGHT_AND_TOP",        TILE(0x1f2, COL3_PAL, 0, 0), TILE(0x1f4, COL3_PAL, H, 0), TILE(0x1f1, COL3_PAL, 0, V), TILE(0x1f3, COL3_PAL, H, V), COL_NONE)
+    Metatile("COL3_18_CROSS_WITH_FULL_CENTER_AND_LINE_AT_TOP_AND_LEFT",         TILE(0x1f4, COL3_PAL, 0, 0), TILE(0x1f2, COL3_PAL, H, 0), TILE(0x1f3, COL3_PAL, 0, V), TILE(0x1f1, COL3_PAL, H, V), COL_NONE)
+    Metatile("COL3_18_CROSS_WITH_FULL_CENTER_AND_LINE_AT_LEFT_AND_BOTTOM",      TILE(0x1f3, COL3_PAL, 0, 0), TILE(0x1f1, COL3_PAL, H, 0), TILE(0x1f4, COL3_PAL, 0, V), TILE(0x1f2, COL3_PAL, H, V), COL_NONE)
+    Metatile("COL3_18_CROSS_WITH_FULL_CENTER_AND_LINE_AT_BOTTOM_AND_TOP",       TILE(0x1f2, COL3_PAL, 0, 0), TILE(0x1f2, COL3_PAL, H, 0), TILE(0x1f2, COL3_PAL, 0, V), TILE(0x1f2, COL3_PAL, H, V), COL_NONE)
+    Metatile("COL3_18_CROSS_WITH_FULL_CENTER_AND_LINE_AT_LEFT_AND_RIGHT",       TILE(0x1f3, COL3_PAL, 0, 0), TILE(0x1f3, COL3_PAL, H, 0), TILE(0x1f3, COL3_PAL, 0, V), TILE(0x1f3, COL3_PAL, H, V), COL_NONE)
+    Metatile("COL3_18_CROSS_WITH_FULL_CENTER_AND_LINE_AT_LEFT_BOTTOM_AND_RIGHT",TILE(0x1f3, COL3_PAL, 0, 0), TILE(0x1f3, COL3_PAL, H, 0), TILE(0x1f4, COL3_PAL, 0, V), TILE(0x1f4, COL3_PAL, H, V), COL_NONE)
+    Metatile("COL3_18_CROSS_WITH_FULL_CENTER_AND_LINE_AT_BOTTOM_RIGHT_AND_TOP", TILE(0x1f2, COL3_PAL, 0, 0), TILE(0x1f4, COL3_PAL, H, 0), TILE(0x1f2, COL3_PAL, 0, V), TILE(0x1f4, COL3_PAL, H, V), COL_NONE)
+    Metatile("COL3_18_CROSS_WITH_FULL_CENTER_AND_LINE_AT_BOTTOM_RIGHT_AND_TOP", TILE(0x1f4, COL3_PAL, 0, 0), TILE(0x1f4, COL3_PAL, H, 0), TILE(0x1f3, COL3_PAL, 0, V), TILE(0x1f3, COL3_PAL, H, V), COL_NONE)
+    Metatile("COL3_18_CROSS_WITH_FULL_CENTER_AND_LINE_AT_TOP_LEFT_AND_BOTTOM",  TILE(0x1f4, COL3_PAL, 0, 0), TILE(0x1f2, COL3_PAL, H, 0), TILE(0x1f4, COL3_PAL, 0, V), TILE(0x1f2, COL3_PAL, H, V), COL_NONE)
+    Metatile("COL3_18_CROSS_OMFG_ITS_OVER_FULL_CENTER_AND_CROSS",               TILE(0x1f4, COL3_PAL, 0, 0), TILE(0x1f4, COL3_PAL, H, 0), TILE(0x1f4, COL3_PAL, 0, V), TILE(0x1f4, COL3_PAL, H, V), COL_NONE)
+
+    Metatile("COL4_18_CROSS_WITH_FULL_CENTER_BUT_COL",                          TILE(0x1f1, COL4_PAL, 0, 0), TILE(0x1f1, COL4_PAL, H, 0), TILE(0x1f1, COL4_PAL, 0, V), TILE(0x1f1, COL4_PAL, H, V), COL_NONE)
+    Metatile("COL4_18_CROSS_WITH_FULL_CENTER_AND_LINE_AT_BOTTOM",               TILE(0x1f1, COL4_PAL, 0, 0), TILE(0x1f1, COL4_PAL, H, 0), TILE(0x1f2, COL4_PAL, 0, V), TILE(0x1f2, COL4_PAL, H, V), COL_NONE)
+    Metatile("COL4_18_CROSS_WITH_FULL_CENTER_AND_LINE_AT_RIGHT",                TILE(0x1f1, COL4_PAL, 0, 0), TILE(0x1f3, COL4_PAL, H, 0), TILE(0x1f1, COL4_PAL, 0, V), TILE(0x1f3, COL4_PAL, H, V), COL_NONE)
+    Metatile("COL4_18_CROSS_WITH_FULL_CENTER_AND_LINE_AT_TOP",                  TILE(0x1f2, COL4_PAL, 0, 0), TILE(0x1f2, COL4_PAL, H, 0), TILE(0x1f1, COL4_PAL, 0, V), TILE(0x1f1, COL4_PAL, H, V), COL_NONE)
+    Metatile("COL4_18_CROSS_WITH_FULL_CENTER_AND_LINE_AT_LEFT",                 TILE(0x1f3, COL4_PAL, 0, 0), TILE(0x1f1, COL4_PAL, H, 0), TILE(0x1f3, COL4_PAL, 0, V), TILE(0x1f1, COL4_PAL, H, V), COL_NONE)
+    Metatile("COL4_18_CROSS_WITH_FULL_CENTER_AND_LINE_AT_BOTTOM_AND_RIGHT",     TILE(0x1f1, COL4_PAL, 0, 0), TILE(0x1f3, COL4_PAL, H, 0), TILE(0x1f2, COL4_PAL, 0, V), TILE(0x1f4, COL4_PAL, H, V), COL_NONE)
+    Metatile("COL4_18_CROSS_WITH_FULL_CENTER_AND_LINE_AT_RIGHT_AND_TOP",        TILE(0x1f2, COL4_PAL, 0, 0), TILE(0x1f4, COL4_PAL, H, 0), TILE(0x1f1, COL4_PAL, 0, V), TILE(0x1f3, COL4_PAL, H, V), COL_NONE)
+    Metatile("COL4_18_CROSS_WITH_FULL_CENTER_AND_LINE_AT_TOP_AND_LEFT",         TILE(0x1f4, COL4_PAL, 0, 0), TILE(0x1f2, COL4_PAL, H, 0), TILE(0x1f3, COL4_PAL, 0, V), TILE(0x1f1, COL4_PAL, H, V), COL_NONE)
+    Metatile("COL4_18_CROSS_WITH_FULL_CENTER_AND_LINE_AT_LEFT_AND_BOTTOM",      TILE(0x1f3, COL4_PAL, 0, 0), TILE(0x1f1, COL4_PAL, H, 0), TILE(0x1f4, COL4_PAL, 0, V), TILE(0x1f2, COL4_PAL, H, V), COL_NONE)
+    Metatile("COL4_18_CROSS_WITH_FULL_CENTER_AND_LINE_AT_BOTTOM_AND_TOP",       TILE(0x1f2, COL4_PAL, 0, 0), TILE(0x1f2, COL4_PAL, H, 0), TILE(0x1f2, COL4_PAL, 0, V), TILE(0x1f2, COL4_PAL, H, V), COL_NONE)
+    Metatile("COL4_18_CROSS_WITH_FULL_CENTER_AND_LINE_AT_LEFT_AND_RIGHT",       TILE(0x1f3, COL4_PAL, 0, 0), TILE(0x1f3, COL4_PAL, H, 0), TILE(0x1f3, COL4_PAL, 0, V), TILE(0x1f3, COL4_PAL, H, V), COL_NONE)
+    Metatile("COL4_18_CROSS_WITH_FULL_CENTER_AND_LINE_AT_LEFT_BOTTOM_AND_RIGHT",TILE(0x1f3, COL4_PAL, 0, 0), TILE(0x1f3, COL4_PAL, H, 0), TILE(0x1f4, COL4_PAL, 0, V), TILE(0x1f4, COL4_PAL, H, V), COL_NONE)
+    Metatile("COL4_18_CROSS_WITH_FULL_CENTER_AND_LINE_AT_BOTTOM_RIGHT_AND_TOP", TILE(0x1f2, COL4_PAL, 0, 0), TILE(0x1f4, COL4_PAL, H, 0), TILE(0x1f2, COL4_PAL, 0, V), TILE(0x1f4, COL4_PAL, H, V), COL_NONE)
+    Metatile("COL4_18_CROSS_WITH_FULL_CENTER_AND_LINE_AT_BOTTOM_RIGHT_AND_TOP", TILE(0x1f4, COL4_PAL, 0, 0), TILE(0x1f4, COL4_PAL, H, 0), TILE(0x1f3, COL4_PAL, 0, V), TILE(0x1f3, COL4_PAL, H, V), COL_NONE)
+    Metatile("COL4_18_CROSS_WITH_FULL_CENTER_AND_LINE_AT_TOP_LEFT_AND_BOTTOM",  TILE(0x1f4, COL4_PAL, 0, 0), TILE(0x1f2, COL4_PAL, H, 0), TILE(0x1f4, COL4_PAL, 0, V), TILE(0x1f2, COL4_PAL, H, V), COL_NONE)
+    Metatile("COL4_18_CROSS_OMFG_ITS_OVER_FULL_CENTER_AND_CROSS",               TILE(0x1f4, COL4_PAL, 0, 0), TILE(0x1f4, COL4_PAL, H, 0), TILE(0x1f4, COL4_PAL, 0, V), TILE(0x1f4, COL4_PAL, H, V), COL_NONE)
 
 };
